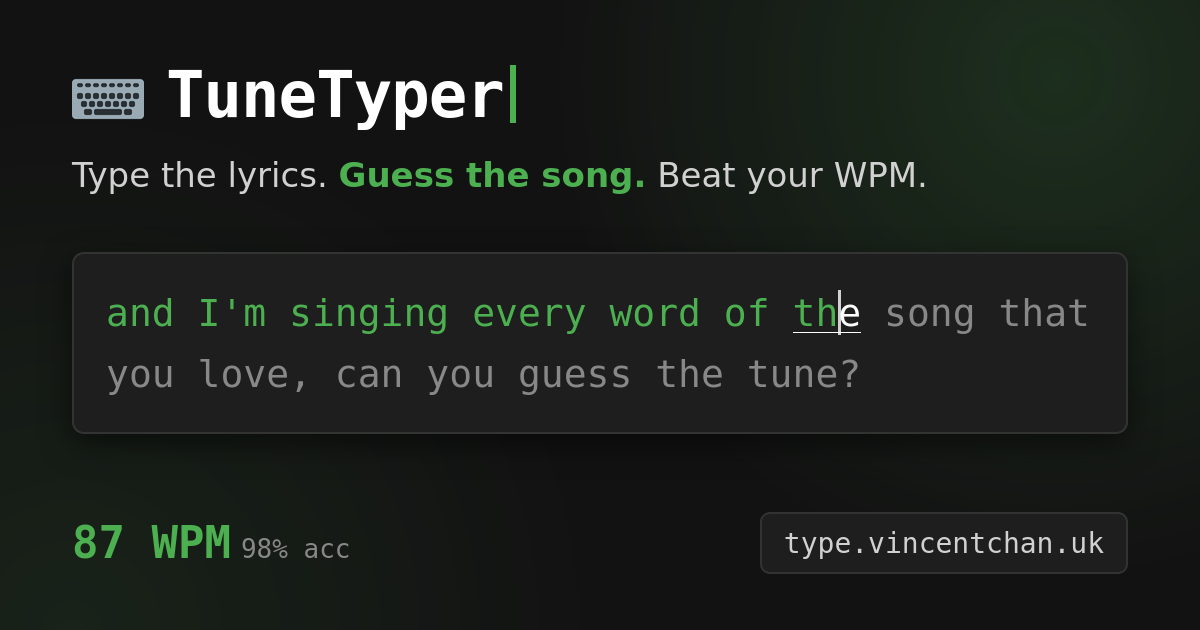
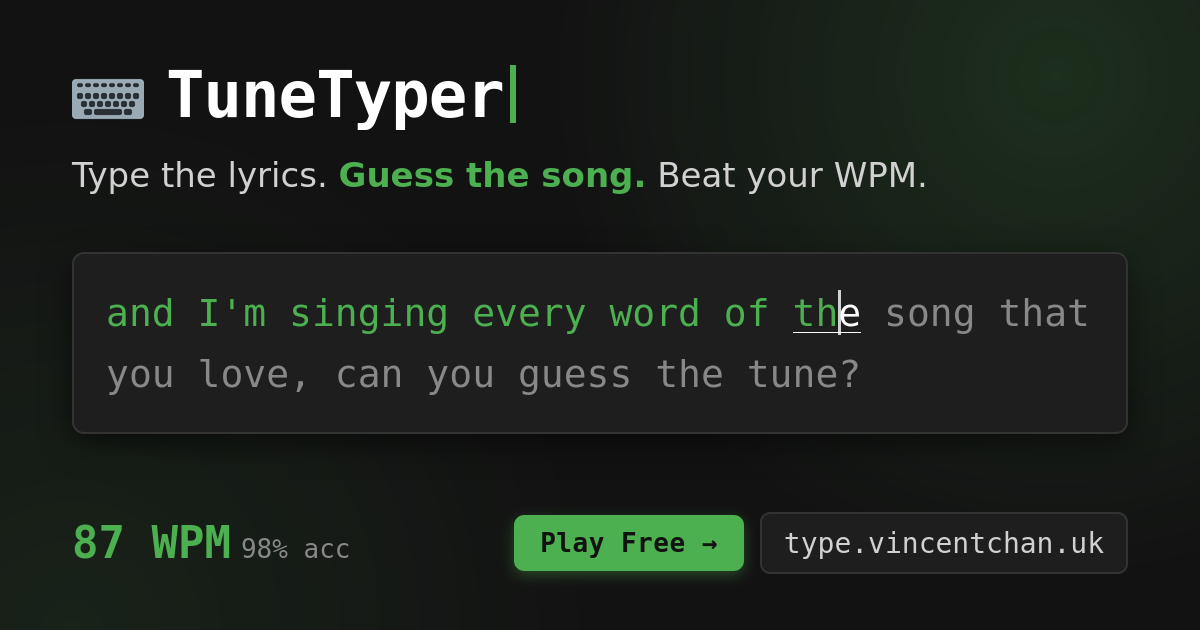
Optimize SEO and Open Graph metadata lengths and add CTA to social card

Changed region(s): [[0.4008, 0.8143, 0.6475, 0.9349]]

diff --git a/tests/seo-metadata.test.js b/tests/seo-metadata.test.js
@@ -1,0 +1,95 @@
+const test = require('node:test');
+const assert = require('node:assert/strict');
+const fs = require('node:fs');
+const path = require('node:path');
+
+const indexPath = path.join(__dirname, '..', 'public', 'index.html');
+const ogImagePath = path.join(__dirname, '..', 'public', 'og-image.png');
+const ogTemplatePath = path.join(__dirname, '..', 'assets', 'og-image.html');
+
+const html = fs.readFileSync(indexPath, 'utf-8');
+
+function getTagAttr(tagRegex, attrName) {
+    const match = html.match(tagRegex);
+    if (!match) return null;
+    const attrRegex = new RegExp(`${attrName}=["']([^"']*)["']`, 'i');
+    const attrMatch = match[0].match(attrRegex);
+    return attrMatch ? attrMatch[1] : null;
+}
+
+test('SEO & Open Graph metadata validation', async (t) => {
+    await t.test('Page title is within Google SERP display limit (<= 60 chars)', () => {
+        const titleMatch = html.match(/<title>([^<]+)<\/title>/i);
+        assert.ok(titleMatch, 'Title tag should exist');
+        const title = titleMatch[1].trim();
+        // Unescape &amp; if present
+        const unescapedTitle = title.replace(/&amp;/g, '&');
+        assert.ok(
+            unescapedTitle.length <= 60,
+            `Title "${unescapedTitle}" length (${unescapedTitle.length}) exceeds 60 characters`
+        );
+        assert.ok(unescapedTitle.length >= 20, 'Title should be sufficiently descriptive');
+    });
+
+    await t.test('Meta description is optimized for search snippets (120 - 160 chars)', () => {
+        const desc = getTagAttr(/<meta\s+name=["']description["'][^>]*>/i, 'content');
+        assert.ok(desc, 'Meta description must exist');
+        assert.ok(
+            desc.length <= 160,
+            `Meta description length (${desc.length}) exceeds Google snippet limit of 160 chars`
+        );
+        assert.ok(
+            desc.length >= 120,
+            `Meta description length (${desc.length}) is too short (< 120 chars)`
+        );
+    });
+
+    await t.test('Open Graph & Twitter description fits mobile social cards (<= 125 chars)', () => {
+        const ogDesc = getTagAttr(/<meta\s+property=["']og:description["'][^>]*>/i, 'content');
+        assert.ok(ogDesc, 'og:description must exist');
+        assert.ok(
+            ogDesc.length <= 125,
+            `og:description length (${ogDesc.length}) exceeds mobile card limit of 125 chars`
+        );
+
+        const twitterDesc = getTagAttr(/<meta\s+name=["']twitter:description["'][^>]*>/i, 'content');
+        assert.ok(twitterDesc, 'twitter:description must exist');
+        assert.ok(
+            twitterDesc.length <= 125,
+            `twitter:description length (${twitterDesc.length}) exceeds mobile card limit of 125 chars`
+        );
+    });
+
+    await t.test('Open Graph & Twitter titles fit social card limits (<= 60 chars)', () => {
+        const ogTitle = getTagAttr(/<meta\s+property=["']og:title["'][^>]*>/i, 'content');
+        assert.ok(ogTitle, 'og:title must exist');
+        const unescapedOgTitle = ogTitle.replace(/&amp;/g, '&');
+        assert.ok(
+            unescapedOgTitle.length <= 60,
+            `og:title length (${unescapedOgTitle.length}) exceeds 60 chars`
+        );
+
+        const twitterTitle = getTagAttr(/<meta\s+name=["']twitter:title["'][^>]*>/i, 'content');
+        assert.ok(twitterTitle, 'twitter:title must exist');
+        const unescapedTwitterTitle = twitterTitle.replace(/&amp;/g, '&');
+        assert.ok(
+            unescapedTwitterTitle.length <= 60,
+            `twitter:title length (${unescapedTwitterTitle.length}) exceeds 60 chars`
+        );
+    });
+
+    await t.test('Open Graph image assets exist and include Call-To-Action (CTA)', () => {
+        assert.ok(fs.existsSync(ogImagePath), 'public/og-image.png must exist');
+        const stats = fs.statSync(ogImagePath);
+        assert.ok(stats.size > 10000, 'public/og-image.png should not be empty or truncated');
+
+        const ogTemplate = fs.readFileSync(ogTemplatePath, 'utf-8');
+        // Check for conversion CTA text in template
+        const hasCta = /Play Free|Play Now|Start Playing|Start Typing/i.test(ogTemplate);
+        assert.ok(hasCta, 'assets/og-image.html must contain a conversion call-to-action');
+
+        const ogImageAlt = getTagAttr(/<meta\s+property=["']og:image:alt["'][^>]*>/i, 'content');
+        assert.ok(ogImageAlt, 'og:image:alt must exist');
+        assert.ok(ogImageAlt.length > 20, 'og:image:alt should be descriptive');
+    });
+});

diff --git a/public/index.html b/public/index.html
@@ -12,26 +12,26 @@
     <link rel="manifest" href="/favicon/site.webmanifest">
     <link rel="shortcut icon" href="/favicon/favicon.ico">
 
-    <title>TuneTyper - Type Song Lyrics, Guess the Tune, Improve Your Typing!</title>
-    <meta name="description" content="Play TuneTyper, the ultimate typing game for music lovers! Pull song lyrics from your favorite artists, type them to test your speed, and guess the tune for extra fun. Improve your typing skills and enjoy music snippets along the way.">
+    <title>TuneTyper - Type Song Lyrics &amp; Guess the Tune</title>
+    <meta name="description" content="Type lyrics from your favorite artists, test your typing speed, and guess the song in TuneTyper. The ultimate music typing game. Play free online now!">
     <meta name="keywords" content="typing game, music game, song lyrics typing, WPM typing test, typing speed, music lovers, guess the tune, typing and music">
     <meta name="author" content="Vincent Chan">
     <meta name="robots" content="index, follow">
-    <meta property="og:title" content="TuneTyper - The Typing Game for Music Enthusiasts">
-    <meta property="og:description" content="Test your typing skills with TuneTyper! Input your favorite artist, type song lyrics, and guess the tune. A fun game for music and typing fans.">
+    <meta property="og:title" content="TuneTyper - Type Song Lyrics &amp; Guess the Tune">
+    <meta property="og:description" content="Type lyrics from your favorite artists, guess the tune, and beat your WPM in TuneTyper. Play free in your browser!">
     <meta property="og:url" content="https://type.vincentchan.uk">
     <meta property="og:type" content="website">
     <meta property="og:image" content="https://type.vincentchan.uk/og-image.png">
     <meta property="og:image:type" content="image/png">
     <meta property="og:image:width" content="1200">
     <meta property="og:image:height" content="630">
-    <meta property="og:image:alt" content="TuneTyper: type the lyrics, guess the song, beat your WPM.">
+    <meta property="og:image:alt" content="TuneTyper: type song lyrics, guess the song, and beat your WPM. Play free at type.vincentchan.uk.">
     <meta property="og:site_name" content="TuneTyper">
     <meta name="twitter:card" content="summary_large_image">
-    <meta name="twitter:title" content="TuneTyper - Type Song Lyrics and Guess the Tune!">
-    <meta name="twitter:description" content="Pull song lyrics, type them to test your speed, and guess the tune in TuneTyper. Perfect for music lovers and typing enthusiasts!">
+    <meta name="twitter:title" content="TuneTyper - Type Song Lyrics &amp; Guess the Tune">
+    <meta name="twitter:description" content="Type lyrics from your favorite artists, guess the tune, and beat your WPM in TuneTyper. Play free in your browser!">
     <meta name="twitter:image" content="https://type.vincentchan.uk/og-image.png">
-    <meta name="twitter:image:alt" content="TuneTyper: type the lyrics, guess the song, beat your WPM.">
+    <meta name="twitter:image:alt" content="TuneTyper: type song lyrics, guess the song, and beat your WPM. Play free at type.vincentchan.uk.">
     
 </head>
 <body>

diff --git a/assets/og-image.html b/assets/og-image.html
@@ -2,7 +2,7 @@
 <!--
   Source for public/og-image.png (1200x630 social preview card).
   Regenerate with:
-    firefox --headless --window-size=1200,630 --screenshot public/og-image.png "file://$PWD/assets/og-image.html"
+    rm -f public/og-image.png && firefox --headless --screenshot "$PWD/public/og-image.png" --window-size 1200,630 "file://$PWD/assets/og-image.html"
 -->
 <html lang="en">
 <head>
@@ -92,6 +92,21 @@
         color: #4caf50;
     }
     .wpm span { font-size: 26px; color: #888; font-weight: normal; margin-left: 10px; }
+    .footer-cta {
+        display: flex;
+        align-items: center;
+        gap: 16px;
+    }
+    .cta-btn {
+        font-size: 26px;
+        font-weight: bold;
+        color: #121212;
+        background: #4caf50;
+        padding: 12px 26px;
+        border-radius: 10px;
+        letter-spacing: 0.5px;
+        box-shadow: 0 4px 14px rgba(76, 175, 80, 0.35);
+    }
     .url {
         font-size: 28px;
         color: #d1d1d1;
@@ -118,7 +133,10 @@
 
         <div class="footer">
             <div class="wpm">87 WPM<span>98% acc</span></div>
-            <div class="url">type.vincentchan.uk</div>
+            <div class="footer-cta">
+                <span class="cta-btn">Play Free &rarr;</span>
+                <span class="url">type.vincentchan.uk</span>
+            </div>
         </div>
     </div>
 </body>
